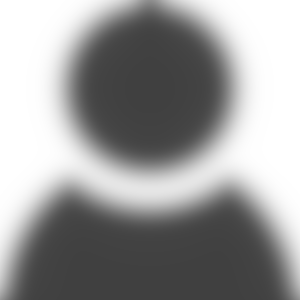
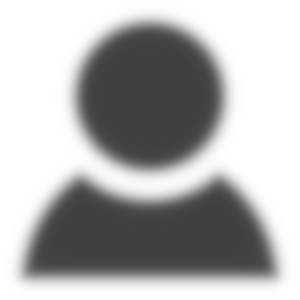
added new team

diff --git a/work.html b/work.html
@@ -27,10 +27,8 @@ permalink: /work/
                 <ul>
                     <li class="filter" data-filter="all">Everyone</li>
                     <li class="filter" data-filter=".ChairTeam">Chair Team</li>
-                    <li class="filter" data-filter=".Websites">Websites</li>
-                    <li class="filter" data-filter=".Graphic">Graphic</li>
-                    <li class="filter" data-filter=".design">design</li>
-                    <li class="filter" data-filter=".Video">Video</li>
+                    <li class="filter" data-filter=".PostDoc">Post Doc</li>
+                    <li class="filter" data-filter=".Phd">PhD Students</li>
                 </ul>
               </div>
               <div class="portfolio-contant">
@@ -72,12 +70,12 @@ permalink: /work/
 
                     </a>
                   </li>
-                  <li class="mix design">
-                    <a href="#">
-                      <img src="{{ site.baseurl }}/img/portfolio/work4.jpg" alt="">
+                  <li class="mix PostDoc">
+                    <a href="https://jordan-frecon.com/">
+                      <img src="{{ site.baseurl }}/img/id/id-frecon.jpg" alt="">
                       <div class="overly">
                         <div class="position-center">
-                          <h2>Tesla Motors</h2>
+                          <h2>Jordan Frecon</h2>
                           <p>Labore et dolore magna aliqua. Ut enim ad </p>
 
                         </div>
